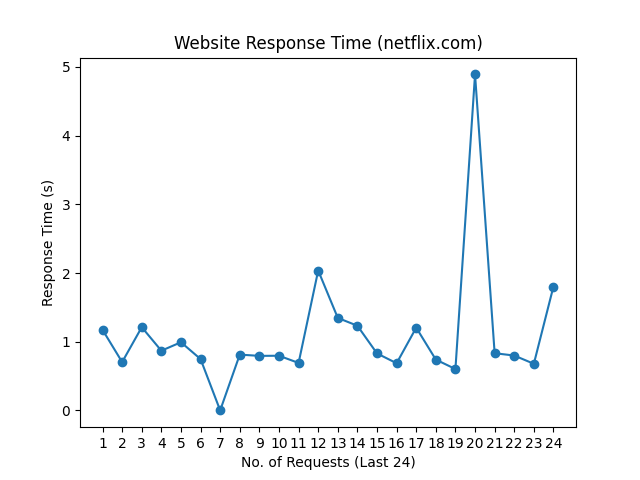
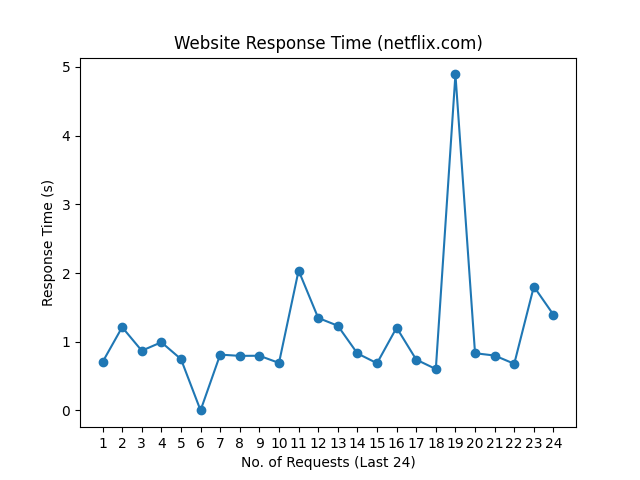
update README.md, history and graph

Changed region(s): [[0.1562, 0.125, 0.875, 0.875]]

diff --git a/README.md b/README.md
@@ -1,10 +1,10 @@
 # Web Monitoring
 
-Last Checked: 15/04/2025 08:22
+Last Checked: 16/04/2025 08:22
 
 | Website | Response Time (s) | Status | Avg Uptime (%) |
 |---------|-------------------|--------|----------------|
 | www.thiswebsiteisdown.net | 0 <br> <img src="graph/thiswebsiteisdown.net.png" alt="Graph" width="200" height="200">  | ❌ Down | 0.00 |
-| www.netflix.com | 1.803077 <br> <img src="graph/netflix.com.png" alt="Graph" width="200" height="200">  | ✅ Up | 99.68 |
-| www.google.com | 0.082701 <br> <img src="graph/google.com.png" alt="Graph" width="200" height="200">  | ✅ Up | 100.00 |
-| www.facebook.com | 1.069153 <br> <img src="graph/facebook.com.png" alt="Graph" width="200" height="200">  | ✅ Up | 100.00 |
+| www.netflix.com | 1.392354 <br> <img src="graph/netflix.com.png" alt="Graph" width="200" height="200">  | ✅ Up | 99.68 |
+| www.google.com | 0.105560 <br> <img src="graph/google.com.png" alt="Graph" width="200" height="200">  | ✅ Up | 100.00 |
+| www.facebook.com | 0.321731 <br> <img src="graph/facebook.com.png" alt="Graph" width="200" height="200">  | ✅ Up | 100.00 |
